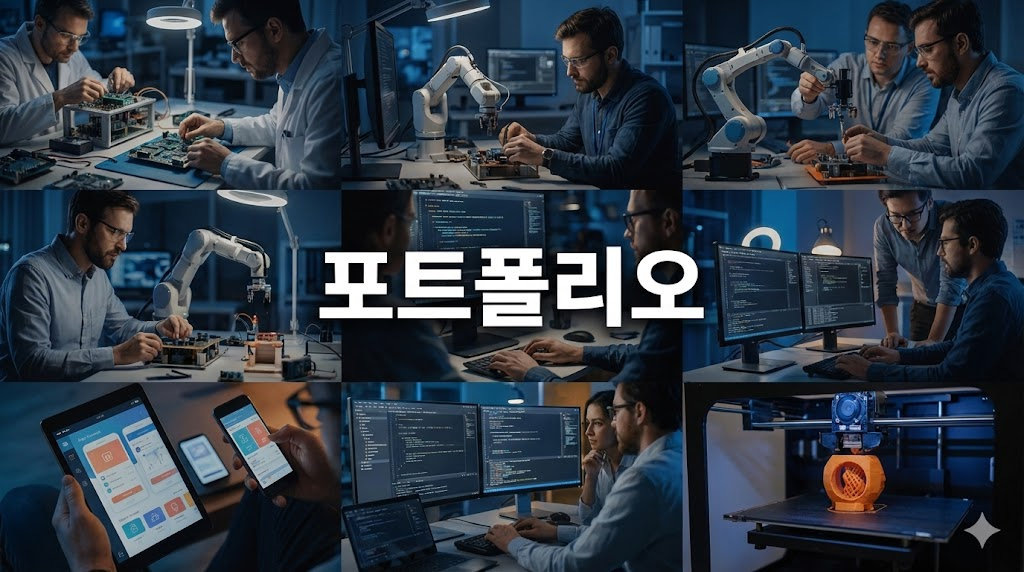
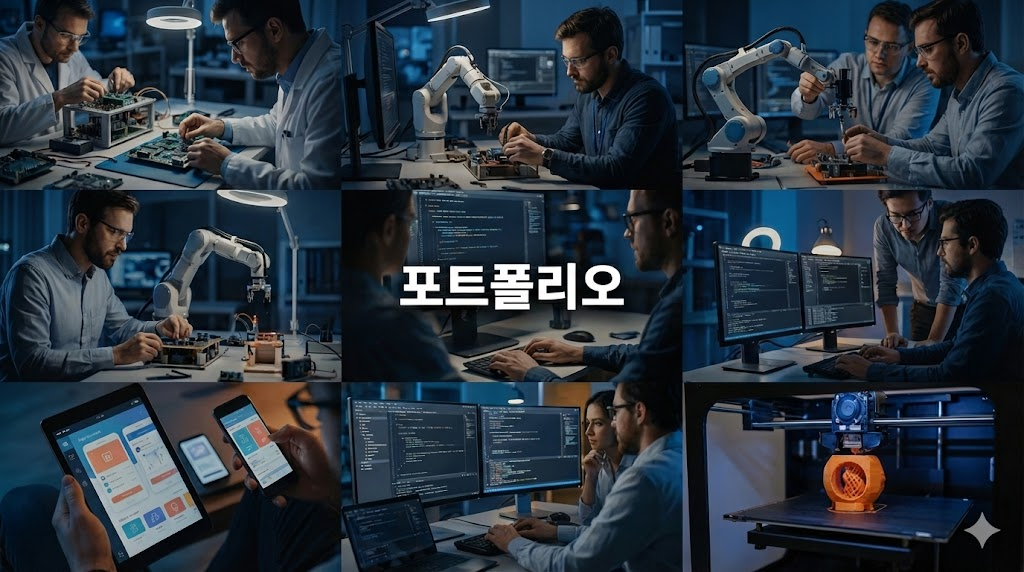
수정정

Changed region(s): [[0.3125, 0.4161, 0.6875, 0.6241], [0.1562, 0.2378, 0.1875, 0.2675]]

diff --git a/pages/ask.vue b/pages/ask.vue
@@ -2,9 +2,6 @@
   <VContainer class="ask-page-container" :fluid="true">
     <VRow class="page-header-row" :style="{ backgroundImage: 'url(/img/banner-inquiry.png)' }">
       <MainHeader />
-      <div class="header-title-overlay">
-        <h1 class="page-title">기술/견적문의</h1>
-      </div>
     </VRow>
     <VRow class="content-wrap">
       <div class="section">
@@ -186,27 +183,6 @@ onMounted(() => init())
     justify-content: center;
   }
 
-  .header-title-overlay {
-    position: absolute;
-    top: 50%;
-    left: 50%;
-    transform: translate(-50%, -50%);
-    z-index: 10;
-    text-align: center;
-
-    .page-title {
-      font-size: min(4.5rem, 12vw);
-      font-weight: 900;
-      color: #ffffff;
-      text-shadow: 
-        4px 4px 15px rgba(0, 0, 0, 0.9),
-        0 0 30px rgba(0, 0, 0, 0.8),
-        -3px -3px 10px rgba(0, 0, 0, 0.9);
-      margin: 0;
-      letter-spacing: -0.02em;
-      -webkit-text-stroke: 1px rgba(0, 0, 0, 0.4);
-    }
-  }
 
   .content-wrap {
     height: auto;

diff --git a/pages/portfolio.vue b/pages/portfolio.vue
@@ -2,9 +2,6 @@
   <VContainer class="portfolio-page-container" :fluid="true">
     <VRow class="page-header-row" :style="{ backgroundImage: 'url(/img/banner-portfolio.png)' }">
       <MainHeader />
-      <div class="header-title-overlay">
-        <h1 class="page-title">포트폴리오</h1>
-      </div>
     </VRow>
     <VRow class="content-wrap">
       <div class="section">
@@ -29,27 +26,6 @@
     justify-content: center;
   }
 
-  .header-title-overlay {
-    position: absolute;
-    top: 50%;
-    left: 50%;
-    transform: translate(-50%, -50%);
-    z-index: 10;
-    text-align: center;
-
-    .page-title {
-      font-size: min(4.5rem, 12vw);
-      font-weight: 900;
-      color: #ffffff;
-      text-shadow: 
-        4px 4px 15px rgba(0, 0, 0, 0.9),
-        0 0 30px rgba(0, 0, 0, 0.8),
-        -3px -3px 10px rgba(0, 0, 0, 0.9);
-      margin: 0;
-      letter-spacing: -0.02em;
-      -webkit-text-stroke: 1px rgba(0, 0, 0, 0.4);
-    }
-  }
 
   .content-wrap {
     height: auto;
